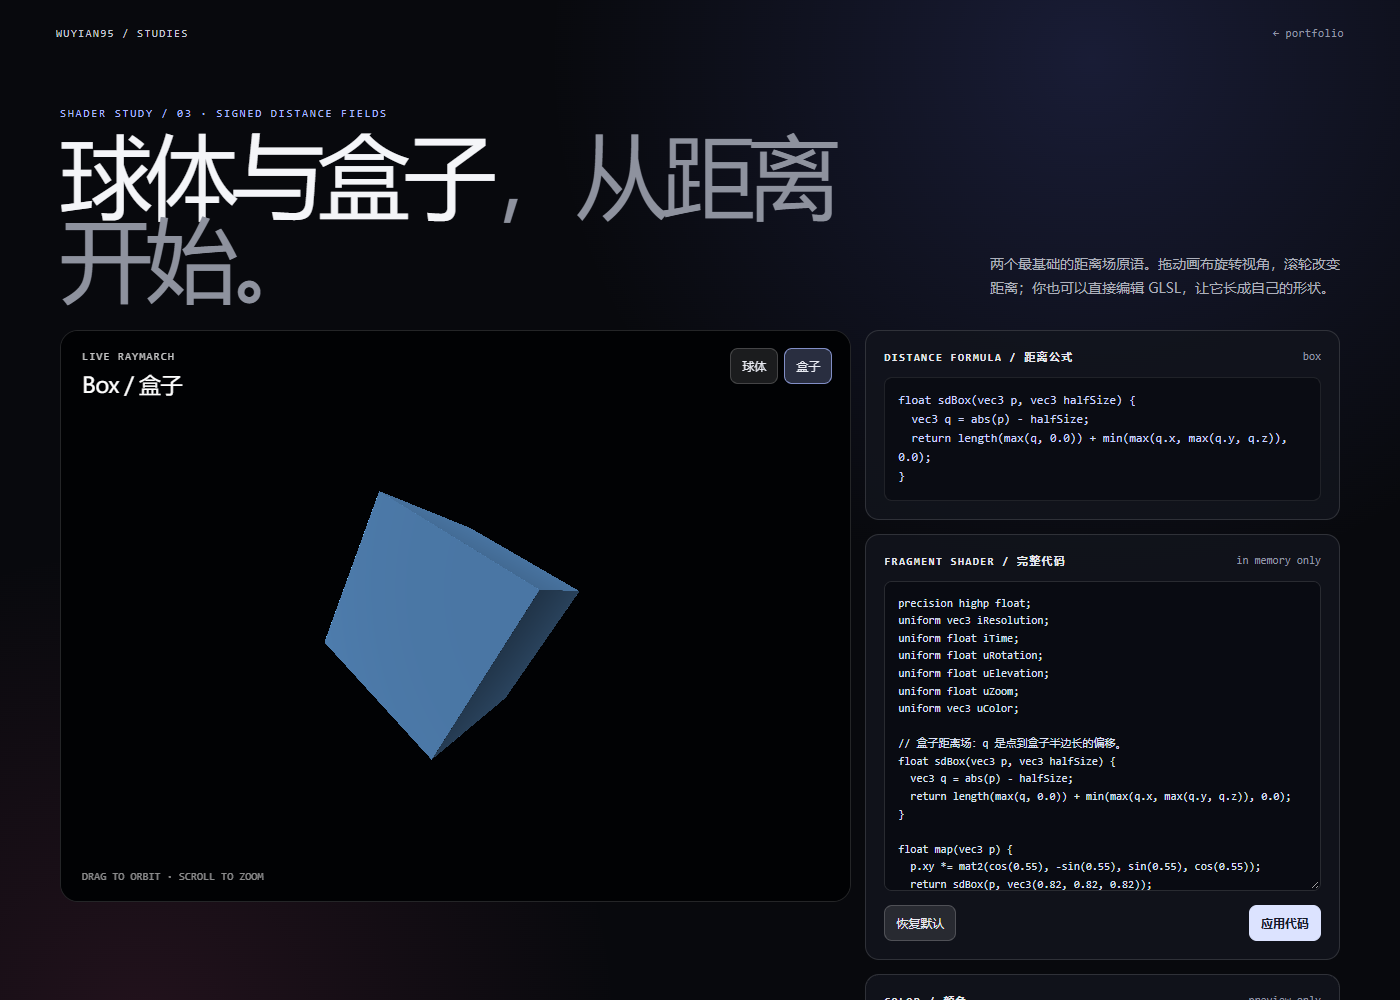
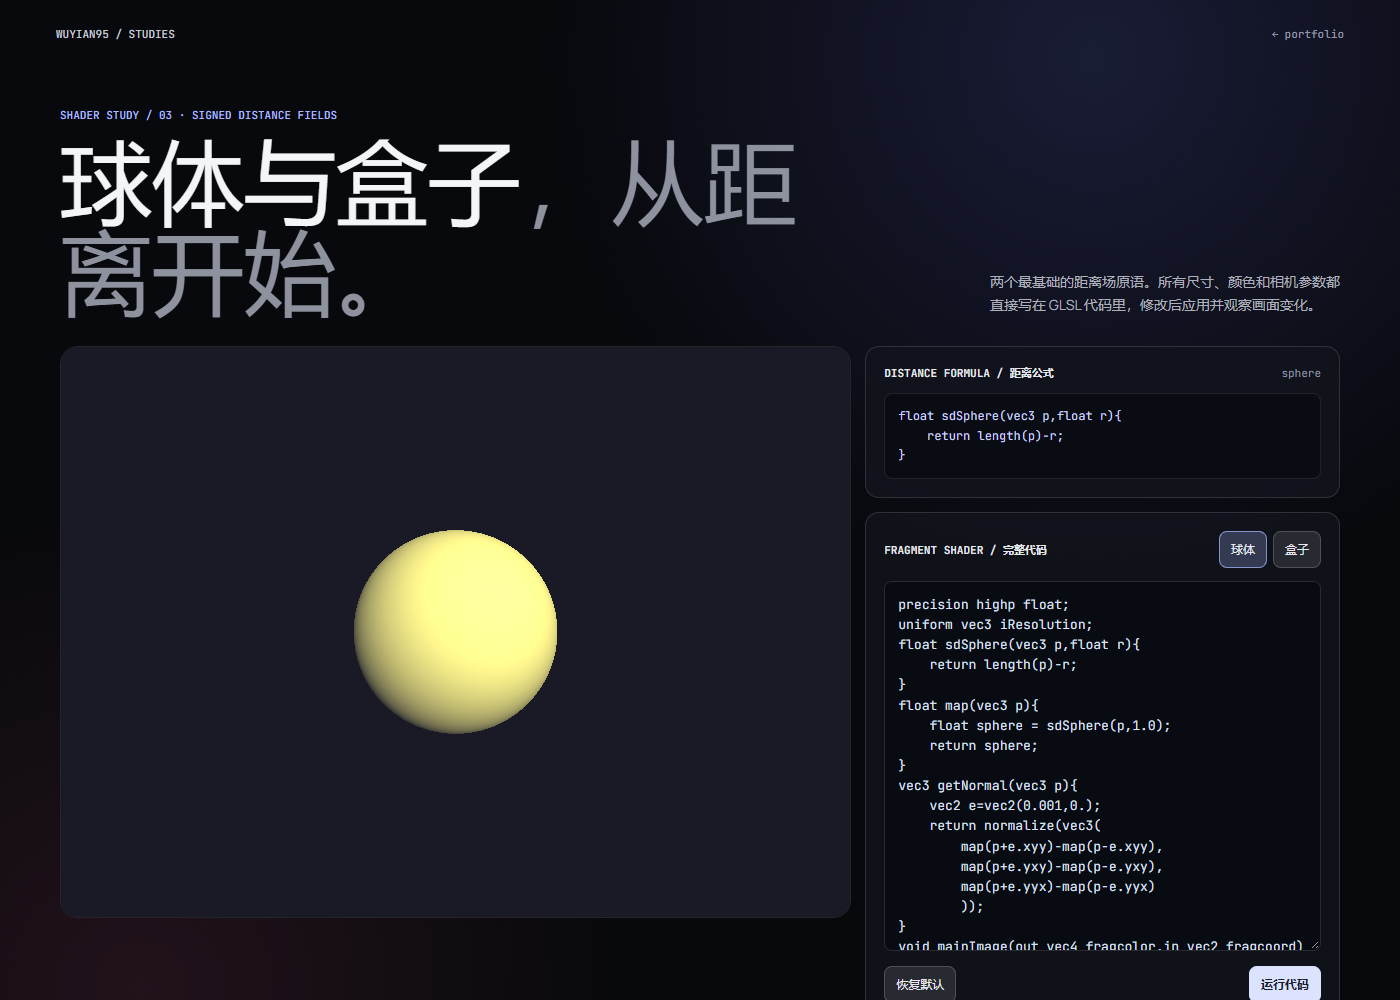
Update SDF practice with provided shaders

diff --git a/sdf-primitives/index.html b/sdf-primitives/index.html
@@ -3,47 +3,43 @@
 <head>
   <meta charset="utf-8">
   <meta name="viewport" content="width=device-width, initial-scale=1">
+  <link rel="preconnect" href="https://fonts.googleapis.com">
+  <link rel="preconnect" href="https://fonts.gstatic.com" crossorigin>
+  <link href="https://fonts.googleapis.com/css2?family=JetBrains+Mono:wght@400;500;600&family=Manrope:wght@400;500;600;700&display=swap" rel="stylesheet">
   <title>SDF Primitives / 球体与盒子</title>
   <style>
     :root { color-scheme: dark; --bg: #08090d; --panel: rgba(18, 20, 28, .86); --line: rgba(255,255,255,.13); --muted: #9297a6; --ink: #f4f5f8; --accent: #a7b8ff; }
     * { box-sizing: border-box; }
-    html, body { min-height: 100%; margin: 0; background: var(--bg); color: var(--ink); font-family: Inter, ui-sans-serif, system-ui, sans-serif; }
+    html, body { min-height: 100%; margin: 0; background: var(--bg); color: var(--ink); font-family: Manrope, "Segoe UI Variable", "Segoe UI", system-ui, sans-serif; }
     body { background: radial-gradient(circle at 78% 5%, rgba(109, 124, 255, .17), transparent 34rem), radial-gradient(circle at 10% 88%, rgba(222, 82, 138, .12), transparent 30rem), var(--bg); }
     a { color: inherit; text-decoration: none; }
-    .top { display: flex; justify-content: space-between; align-items: center; padding: 27px 4vw; color: #c5c8d3; font: 11px ui-monospace, monospace; letter-spacing: .12em; }
-    .top a:last-child { color: var(--muted); letter-spacing: .04em; }
+    .top { display: flex; justify-content: space-between; align-items: center; padding: 27px 4vw; color: #c5c8d3; font: 500 11px "JetBrains Mono", ui-monospace, monospace; letter-spacing: 0; }
+    .top a:last-child { color: var(--muted); }
     main { width: min(1280px, calc(100vw - 8vw)); margin: 0 auto; padding: 4vh 0 60px; }
     .intro { display: grid; grid-template-columns: minmax(0, 1fr) minmax(230px, 350px); gap: 30px; align-items: end; margin-bottom: 30px; }
-    .eyebrow { margin: 0 0 14px; color: var(--accent); font: 11px ui-monospace, monospace; letter-spacing: .16em; }
-    h1 { margin: 0; max-width: 780px; font-size: clamp(42px, 7vw, 92px); line-height: .9; letter-spacing: -.065em; font-weight: 420; }
+    .eyebrow { margin: 0 0 14px; color: var(--accent); font: 500 11px "JetBrains Mono", ui-monospace, monospace; letter-spacing: 0; }
+    h1 { margin: 0; max-width: 780px; font-size: clamp(42px, 7vw, 92px); line-height: .98; letter-spacing: 0; font-weight: 500; }
     h1 span { color: #8e929e; }
     .lede { margin: 0; color: #adb0bb; font-size: 14px; line-height: 1.65; }
     .workspace { display: grid; grid-template-columns: minmax(0, 1.25fr) minmax(330px, .75fr); gap: 14px; align-items: start; }
     .stage { min-height: 570px; position: relative; overflow: hidden; border: 1px solid var(--line); border-radius: 18px; background: #040507; }
-    canvas { display: block; width: 100%; height: 570px; cursor: grab; }
-    canvas.dragging { cursor: grabbing; }
-    .stage-label { position: absolute; z-index: 1; left: 21px; top: 19px; color: rgba(255,255,255,.76); font: 11px ui-monospace, monospace; letter-spacing: .1em; pointer-events: none; }
-    .stage-label strong { display: block; margin-top: 8px; color: #fff; font: 22px system-ui, sans-serif; letter-spacing: -.03em; }
-    .stage-hint { position: absolute; left: 21px; bottom: 18px; color: rgba(255,255,255,.54); font: 11px ui-monospace, monospace; pointer-events: none; }
-    .controls { position: absolute; right: 18px; top: 17px; display: flex; gap: 6px; }
-    button, select { color: #e9ebf3; background: rgba(255,255,255,.1); border: 1px solid rgba(255,255,255,.18); border-radius: 8px; padding: 9px 11px; font: 12px ui-monospace, monospace; cursor: pointer; }
+    canvas { display: block; width: 100%; height: 570px; }
+    button, select { color: #e9ebf3; background: rgba(255,255,255,.1); border: 1px solid rgba(255,255,255,.18); border-radius: 8px; padding: 9px 11px; font: 500 12px "JetBrains Mono", ui-monospace, monospace; cursor: pointer; }
     button:hover, button:focus-visible, select:focus-visible { border-color: rgba(255,255,255,.55); outline: none; }
     button.active { background: rgba(167,184,255,.24); border-color: rgba(167,184,255,.7); }
     .side { display: grid; gap: 14px; }
     .panel { padding: 18px; background: var(--panel); border: 1px solid var(--line); border-radius: 14px; }
     .panel-head { display: flex; justify-content: space-between; align-items: center; gap: 10px; margin-bottom: 13px; }
-    .panel-title { margin: 0; color: #e7e8ee; font: 600 11px ui-monospace, monospace; letter-spacing: .12em; text-transform: uppercase; }
-    .panel-note { color: var(--muted); font: 11px ui-monospace, monospace; }
-    pre { max-height: 200px; overflow: auto; margin: 0; padding: 13px; color: #cbd4ff; background: #0a0c13; border: 1px solid rgba(255,255,255,.09); border-radius: 8px; font: 12px/1.6 ui-monospace, monospace; white-space: pre-wrap; }
-    textarea { width: 100%; min-height: 310px; resize: vertical; color: #dce1f3; background: #090b12; border: 1px solid rgba(255,255,255,.13); border-radius: 8px; padding: 13px; font: 11px/1.6 ui-monospace, monospace; tab-size: 2; }
+    .panel-title { margin: 0; color: #e7e8ee; font: 600 11px "JetBrains Mono", ui-monospace, monospace; letter-spacing: 0; text-transform: uppercase; }
+    .panel-note { color: var(--muted); font: 400 11px "JetBrains Mono", ui-monospace, monospace; }
+    pre { max-height: 200px; overflow: auto; margin: 0; padding: 13px; color: #cbd4ff; background: #0a0c13; border: 1px solid rgba(255,255,255,.09); border-radius: 8px; font: 400 12px/1.6 "JetBrains Mono", ui-monospace, monospace; white-space: pre-wrap; }
+    textarea { width: 100%; min-height: 370px; resize: vertical; color: #dce1f3; background: #090b12; border: 1px solid rgba(255,255,255,.13); border-radius: 8px; padding: 13px; font: 400 13px/1.55 "JetBrains Mono", ui-monospace, monospace; tab-size: 2; }
     textarea:focus { outline: 1px solid var(--accent); border-color: var(--accent); }
     .actions { display: flex; justify-content: space-between; gap: 8px; margin-top: 10px; }
     .primary { background: #dce3ff; color: #171b2b; border-color: #dce3ff; font-weight: 700; }
-    .swatches { display: flex; gap: 7px; align-items: center; }
-    .swatch { width: 26px; height: 26px; padding: 0; border-radius: 50%; border: 2px solid transparent; }
-    .swatch.active { border-color: #fff; box-shadow: 0 0 0 2px rgba(255,255,255,.2); }
     .error { display: none; margin-top: 10px; padding: 10px; color: #ffc6cb; background: rgba(105, 27, 38, .52); border: 1px solid rgba(255,130,145,.4); border-radius: 7px; white-space: pre-wrap; font: 11px/1.5 ui-monospace, monospace; }
-    footer { padding-top: 28px; color: #747887; font: 11px ui-monospace, monospace; }
+    .primitive-switch { display: flex; gap: 6px; }
+    footer { padding-top: 28px; color: #747887; font: 400 11px "JetBrains Mono", ui-monospace, monospace; }
     @media (max-width: 880px) { .intro, .workspace { grid-template-columns: 1fr; } .stage, canvas { min-height: 430px; height: 430px; } .side { grid-template-columns: 1fr 1fr; } }
     @media (max-width: 600px) { main { width: min(100% - 28px, 560px); padding-top: 2vh; } .top { padding: 20px 14px; } .side { grid-template-columns: 1fr; } h1 { font-size: 48px; } }
   </style>
@@ -53,19 +49,15 @@
   <main>
     <section class="intro">
       <div><p class="eyebrow">SHADER STUDY / 03 · SIGNED DISTANCE FIELDS</p><h1>球体与盒子<span>，从距离开始。</span></h1></div>
-      <p class="lede">两个最基础的距离场原语。拖动画布旋转视角，滚轮改变距离；你也可以直接编辑 GLSL，让它长成自己的形状。</p>
+      <p class="lede">两个最基础的距离场原语。所有尺寸、颜色和相机参数都直接写在 GLSL 代码里，修改后应用并观察画面变化。</p>
     </section>
     <section class="workspace">
       <div class="stage">
-        <div class="stage-label">LIVE RAYMARCH<strong id="objectName">Sphere / 球体</strong></div>
-        <div class="controls"><button class="object active" data-object="sphere">球体</button><button class="object" data-object="box">盒子</button></div>
         <canvas id="canvas" aria-label="Interactive SDF preview"></canvas>
-        <div class="stage-hint">DRAG TO ORBIT · SCROLL TO ZOOM</div>
       </div>
       <div class="side">
         <section class="panel"><div class="panel-head"><h2 class="panel-title">Distance formula / 距离公式</h2><span class="panel-note" id="formulaLabel">sphere</span></div><pre id="formula"></pre></section>
-        <section class="panel"><div class="panel-head"><h2 class="panel-title">Fragment shader / 完整代码</h2><span class="panel-note">in memory only</span></div><textarea id="editor" spellcheck="false"></textarea><div class="actions"><button id="reset">恢复默认</button><button class="primary" id="apply">应用代码</button></div><div id="error" class="error"></div></section>
-        <section class="panel"><div class="panel-head"><h2 class="panel-title">Color / 颜色</h2><span class="panel-note">preview only</span></div><div class="swatches"><button class="swatch active" data-color="0.45,0.72,1.0" style="background:#73b8ff" aria-label="Blue"></button><button class="swatch" data-color="1.0,0.37,0.48" style="background:#ff5f7a" aria-label="Pink"></button><button class="swatch" data-color="0.55,1.0,0.67" style="background:#8dffab" aria-label="Green"></button><button class="swatch" data-color="1.0,0.72,0.35" style="background:#ffb85b" aria-label="Orange"></button></div></section>
+        <section class="panel"><div class="panel-head"><h2 class="panel-title">Fragment shader / 完整代码</h2><div class="primitive-switch"><button class="object active" data-object="sphere">球体</button><button class="object" data-object="box">盒子</button></div></div><textarea id="editor" spellcheck="false"></textarea><div class="actions"><button id="reset">恢复默认</button><button class="primary" id="apply">运行代码</button></div><div id="error" class="error"></div></section>
       </div>
     </section>
     <footer>All edits live in this page session and reset when the page is closed or refreshed.</footer>
@@ -79,16 +71,8 @@
       var errorBox = document.getElementById('error');
       var editor = document.getElementById('editor');
       var formula = document.getElementById('formula');
-      var objectName = document.getElementById('objectName');
       var formulaLabel = document.getElementById('formulaLabel');
       var current = 'sphere';
-      var color = [0.45, 0.72, 1.0];
-      var angle = 0.55;
-      var elevation = 0.25;
-      var zoom = 3.1;
-      var dragging = false;
-      var lastX = 0;
-      var lastY = 0;
       var program;
       var uniforms = {};
 
@@ -96,10 +80,11 @@
         sphere: `precision highp float;
 uniform vec3 iResolution;
 uniform float iTime;
-uniform float uRotation;
-uniform float uElevation;
-uniform float uZoom;
-uniform vec3 uColor;
+const float SPHERE_RADIUS = 1.0;
+const float CAMERA_YAW = 0.55;
+const float CAMERA_PITCH = 0.25;
+const float CAMERA_DISTANCE = 3.1;
+const vec3 OBJECT_COLOR = vec3(0.45, 0.72, 1.0);
 
 // 球体距离场：返回点 p 到半径为 radius 的球面的有符号距离。
 float sdSphere(vec3 p, float radius) {
@@ -107,7 +92,7 @@ float sdSphere(vec3 p, float radius) {
 }
 
 float map(vec3 p) {
-  return sdSphere(p, 1.0);
+  return sdSphere(p, SPHERE_RADIUS);
 }
 
 vec3 getNormal(vec3 p) {
@@ -121,7 +106,7 @@ vec3 getNormal(vec3 p) {
 
 void mainImage(out vec4 fragColor, in vec2 fragCoord) {
   vec2 uv = (fragCoord * 2.0 - iResolution.xy) / iResolution.y;
-  vec3 ro = vec3(sin(uRotation) * uZoom, uElevation, cos(uRotation) * uZoom);
+  vec3 ro = vec3(sin(CAMERA_YAW) * CAMERA_DISTANCE, sin(CAMERA_PITCH) * CAMERA_DISTANCE, cos(CAMERA_YAW) * CAMERA_DISTANCE);
   vec3 forward = normalize(-ro);
   vec3 right = normalize(cross(forward, vec3(0.0, 1.0, 0.0)));
   vec3 up = cross(right, forward);
@@ -143,17 +128,19 @@ void mainImage(out vec4 fragColor, in vec2 fragCoord) {
     vec3 light = normalize(vec3(-0.5, 0.8, 1.0));
     float diffuse = max(dot(n, light), 0.0);
     float rim = pow(1.0 - max(dot(n, -rd), 0.0), 3.0);
-    col = uColor * (0.12 + 0.72 * diffuse + 0.35 * rim);
+    col = OBJECT_COLOR * (0.12 + 0.72 * diffuse + 0.35 * rim);
   }
   fragColor = vec4(col, 1.0);
 }`,
         box: `precision highp float;
 uniform vec3 iResolution;
 uniform float iTime;
-uniform float uRotation;
-uniform float uElevation;
-uniform float uZoom;
-uniform vec3 uColor;
+const vec3 BOX_HALF_SIZE = vec3(0.82, 0.82, 0.82);
+const float BOX_ROTATION = 0.55;
+const float CAMERA_YAW = 0.55;
+const float CAMERA_PITCH = 0.25;
+const float CAMERA_DISTANCE = 3.1;
+const vec3 OBJECT_COLOR = vec3(0.45, 0.72, 1.0);
 
 // 盒子距离场：q 是点到盒子半边长的偏移。
 float sdBox(vec3 p, vec3 halfSize) {
@@ -162,8 +149,8 @@ float sdBox(vec3 p, vec3 halfSize) {
 }
 
 float map(vec3 p) {
-  p.xy *= mat2(cos(0.55), -sin(0.55), sin(0.55), cos(0.55));
-  return sdBox(p, vec3(0.82, 0.82, 0.82));
+  p.xy *= mat2(cos(BOX_ROTATION), -sin(BOX_ROTATION), sin(BOX_ROTATION), cos(BOX_ROTATION));
+  return sdBox(p, BOX_HALF_SIZE);
 }
 
 vec3 getNormal(vec3 p) {
@@ -177,7 +164,7 @@ vec3 getNormal(vec3 p) {
 
 void mainImage(out vec4 fragColor, in vec2 fragCoord) {
   vec2 uv = (fragCoord * 2.0 - iResolution.xy) / iResolution.y;
-  vec3 ro = vec3(sin(uRotation) * uZoom, uElevation, cos(uRotation) * uZoom);
+  vec3 ro = vec3(sin(CAMERA_YAW) * CAMERA_DISTANCE, sin(CAMERA_PITCH) * CAMERA_DISTANCE, cos(CAMERA_YAW) * CAMERA_DISTANCE);
   vec3 forward = normalize(-ro);
   vec3 right = normalize(cross(forward, vec3(0.0, 1.0, 0.0)));
   vec3 up = cross(right, forward);
@@ -199,7 +186,7 @@ void mainImage(out vec4 fragColor, in vec2 fragCoord) {
     vec3 light = normalize(vec3(-0.5, 0.8, 1.0));
     float diffuse = max(dot(n, light), 0.0);
     float rim = pow(1.0 - max(dot(n, -rd), 0.0), 3.0);
-    col = uColor * (0.12 + 0.72 * diffuse + 0.35 * rim);
+    col = OBJECT_COLOR * (0.12 + 0.72 * diffuse + 0.35 * rim);
   }
   fragColor = vec4(col, 1.0);
 }`
@@ -207,6 +194,98 @@ void mainImage(out vec4 fragColor, in vec2 fragCoord) {
       var formulaCode = {
         sphere: 'float sdSphere(vec3 p, float radius) {\n  return length(p) - radius;\n}',
         box: 'float sdBox(vec3 p, vec3 halfSize) {\n  vec3 q = abs(p) - halfSize;\n  return length(max(q, 0.0)) + min(max(q.x, max(q.y, q.z)), 0.0);\n}'
+      };
+
+      code = {
+        sphere: `precision highp float;
+uniform vec3 iResolution;
+float sdSphere(vec3 p,float r){
+    return length(p)-r;
+}
+float map(vec3 p){
+    float sphere = sdSphere(p,1.0);
+    return sphere;
+}
+vec3 getNormal(vec3 p){
+    vec2 e=vec2(0.001,0.);
+    return normalize(vec3(
+        map(p+e.xyy)-map(p-e.xyy),
+        map(p+e.yxy)-map(p-e.yxy),
+        map(p+e.yyx)-map(p-e.yyx)
+        ));
+}
+void mainImage(out vec4 fragcolor,in vec2 fragcoord){
+    vec2 uv=(fragcoord*2.-iResolution.xy)/iResolution.y;
+    vec3 ro=vec3(0,0,-3.);
+    vec3 rd=normalize(vec3(uv,1.));
+    float t=0.;
+    for(int i=0;i<100;i++){
+    vec3 p=ro+rd*t;
+    float d=map(p);
+    t+=d;
+    if(d<0.01||t>100.) break;
+    }
+    vec3 col=vec3(0);
+    if(t<100.){
+    vec3 p=ro+rd*t;
+    vec3 n=getNormal(p);
+    vec3 lightDir=normalize(vec3(1.,1.,-3.));
+    float diff=max(dot(n,lightDir),0.);
+    col=vec3(0.2)+vec3(0.969,0.925,0.431)*diff;
+    }else{
+    col=vec3(.1,.1,.15);
+    }
+    fragcolor=vec4(col,1.);
+}
+void main(){ mainImage(gl_FragColor,gl_FragCoord.xy); }`,
+        box: `precision highp float;
+uniform vec3 iResolution;
+float sdBox(vec3 p,vec3 b){
+    vec3 q=abs(p)-b;
+    return length(max(q,0.))+min(max(q.x,max(q.y,q.z)),0.);
+}
+float map(vec3 p){
+    vec3 boxSize=vec3(.5,5,.5);
+    return sdBox(p,boxSize);
+}
+vec3 getNormal(vec3 p){
+    vec2 e=vec2(0.001,0);
+    return normalize(vec3(
+    map(p+e.xyy)-map(p-e.xyy),
+    map(p+e.yxy)-map(p-e.yxy),
+    map(p+e.yyx)-map(p-e.yyx)
+    ));
+}
+void mainImage(out vec4 fragcolor,in vec2 fragcoord){
+    vec2 uv=(fragcoord*2.-iResolution.xy)/iResolution.y;
+    vec3 ro=vec3(.9,0.9,-2.);
+    vec3 rd=normalize(vec3(uv,1.));
+    float t=0.;
+    for(int i=0;i<100;i++){
+    vec3 p=ro+rd*t;
+    float d=map(p);
+    t+=d;
+    if(d<.001||t>100.) break;
+}
+vec3 col=vec3(0.0);
+if(t<100.0){
+    vec3 p=ro+rd*t;
+    vec3 n=getNormal(p);
+    vec3 lightDir=normalize(vec3(1.,1.,-1.));
+    float diff=max(dot(n,lightDir),0.);
+    float fresnel =pow(1.0-max(dot(n,-rd),0.),2.);
+    vec3 basecolor=vec3(.2,.8,.8);
+    col=basecolor*(.2+diff*.8)+vec3(fresnel*.5);
+    }else{
+    col=vec3(.5,.5,.5);
+    }
+    fragcolor=vec4(col,1.);
+}
+void main(){ mainImage(gl_FragColor,gl_FragCoord.xy); }`
+      };
+      formulaCode = {
+        sphere: 'float sdSphere(vec3 p,float r){\n    return length(p)-r;\n}',
+        box: 'float sdBox(vec3 p,vec3 b){\n    vec3 q=abs(p)-b;\n    return length(max(q,0.))+min(max(q.x,max(q.y,q.z)),0.);\n}'
       };
 
       if (!gl) { errorBox.textContent = 'WebGL is unavailable.'; errorBox.style.display = 'block'; return; }
@@ -217,33 +296,24 @@ void mainImage(out vec4 fragColor, in vec2 fragCoord) {
         try {
           var next = gl.createProgram();
           gl.attachShader(next, compile(gl.VERTEX_SHADER, vertex));
-          gl.attachShader(next, compile(gl.FRAGMENT_SHADER, source + '\nvoid main(){ mainImage(gl_FragColor, gl_FragCoord.xy); }'));
+          gl.attachShader(next, compile(gl.FRAGMENT_SHADER, source));
           gl.linkProgram(next);
           if (!gl.getProgramParameter(next, gl.LINK_STATUS)) throw Error(gl.getProgramInfoLog(next));
           gl.useProgram(next);
           program = next;
           uniforms.resolution = gl.getUniformLocation(program, 'iResolution');
           uniforms.time = gl.getUniformLocation(program, 'iTime');
-          uniforms.rotation = gl.getUniformLocation(program, 'uRotation');
-          uniforms.elevation = gl.getUniformLocation(program, 'uElevation');
-          uniforms.zoom = gl.getUniformLocation(program, 'uZoom');
-          uniforms.color = gl.getUniformLocation(program, 'uColor');
         } catch (err) { errorBox.textContent = 'Shader 编译失败：\n' + err.message; errorBox.style.display = 'block'; }
       }
       var buffer = gl.createBuffer(); gl.bindBuffer(gl.ARRAY_BUFFER, buffer); gl.bufferData(gl.ARRAY_BUFFER, new Float32Array([-1,-1,1,-1,-1,1,-1,1,1,-1,1,1]), gl.STATIC_DRAW);
-      function refreshEditor() { editor.value = code[current]; formula.textContent = formulaCode[current]; formulaLabel.textContent = current; objectName.textContent = current === 'sphere' ? 'Sphere / 球体' : 'Box / 盒子'; useSource(editor.value); }
+      function refreshEditor() { editor.value = code[current]; formula.textContent = formulaCode[current]; formulaLabel.textContent = current; useSource(editor.value); }
       document.querySelectorAll('.object').forEach(function (button) { button.addEventListener('click', function () { current = button.dataset.object; document.querySelectorAll('.object').forEach(function (item) { item.classList.toggle('active', item === button); }); refreshEditor(); }); });
       document.getElementById('apply').addEventListener('click', function () { code[current] = editor.value; useSource(editor.value); });
       document.getElementById('reset').addEventListener('click', refreshEditor);
-      document.querySelectorAll('.swatch').forEach(function (button) { button.addEventListener('click', function () { color = button.dataset.color.split(',').map(Number); document.querySelectorAll('.swatch').forEach(function (item) { item.classList.toggle('active', item === button); }); }); });
-      canvas.addEventListener('pointerdown', function (event) { dragging = true; lastX = event.clientX; lastY = event.clientY; canvas.classList.add('dragging'); canvas.setPointerCapture(event.pointerId); });
-      canvas.addEventListener('pointermove', function (event) { if (!dragging) return; angle += (event.clientX - lastX) * 0.008; elevation = Math.max(-1.5, Math.min(1.5, elevation + (event.clientY - lastY) * 0.006)); lastX = event.clientX; lastY = event.clientY; });
-      canvas.addEventListener('pointerup', function () { dragging = false; canvas.classList.remove('dragging'); });
-      canvas.addEventListener('wheel', function (event) { event.preventDefault(); zoom = Math.max(1.65, Math.min(7.0, zoom + event.deltaY * 0.002)); }, { passive: false });
       function resize() { var scale = Math.min(devicePixelRatio || 1, 2); canvas.width = Math.max(1, Math.floor(canvas.clientWidth * scale)); canvas.height = Math.max(1, Math.floor(canvas.clientHeight * scale)); gl.viewport(0, 0, canvas.width, canvas.height); }
       window.addEventListener('resize', resize); resize(); refreshEditor();
       var start = performance.now();
-      function render(now) { if (program) { gl.uniform3f(uniforms.resolution, canvas.width, canvas.height, 1); gl.uniform1f(uniforms.time, (now - start) / 1000); gl.uniform1f(uniforms.rotation, angle); gl.uniform1f(uniforms.elevation, elevation); gl.uniform1f(uniforms.zoom, zoom); gl.uniform3f(uniforms.color, color[0], color[1], color[2]); var position = gl.getAttribLocation(program, 'position'); gl.enableVertexAttribArray(position); gl.vertexAttribPointer(position, 2, gl.FLOAT, false, 0, 0); gl.drawArrays(gl.TRIANGLES, 0, 6); } requestAnimationFrame(render); }
+      function render(now) { if (program) { gl.uniform3f(uniforms.resolution, canvas.width, canvas.height, 1); gl.uniform1f(uniforms.time, (now - start) / 1000); var position = gl.getAttribLocation(program, 'position'); gl.enableVertexAttribArray(position); gl.vertexAttribPointer(position, 2, gl.FLOAT, false, 0, 0); gl.drawArrays(gl.TRIANGLES, 0, 6); } requestAnimationFrame(render); }
       requestAnimationFrame(render);
     }());
   </script>
